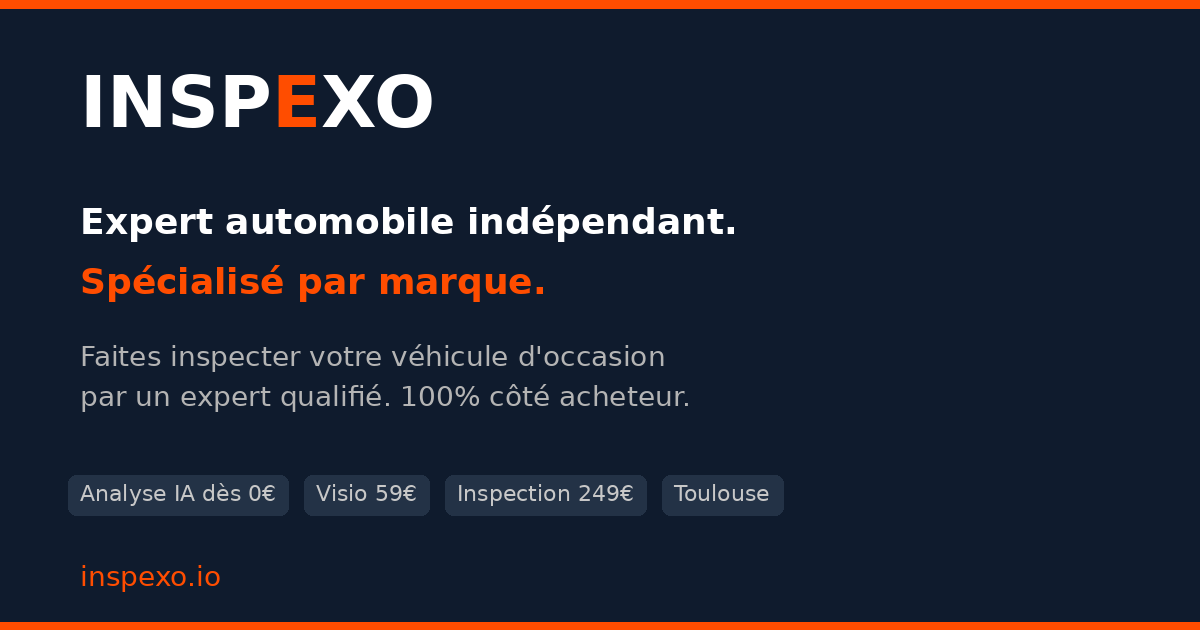
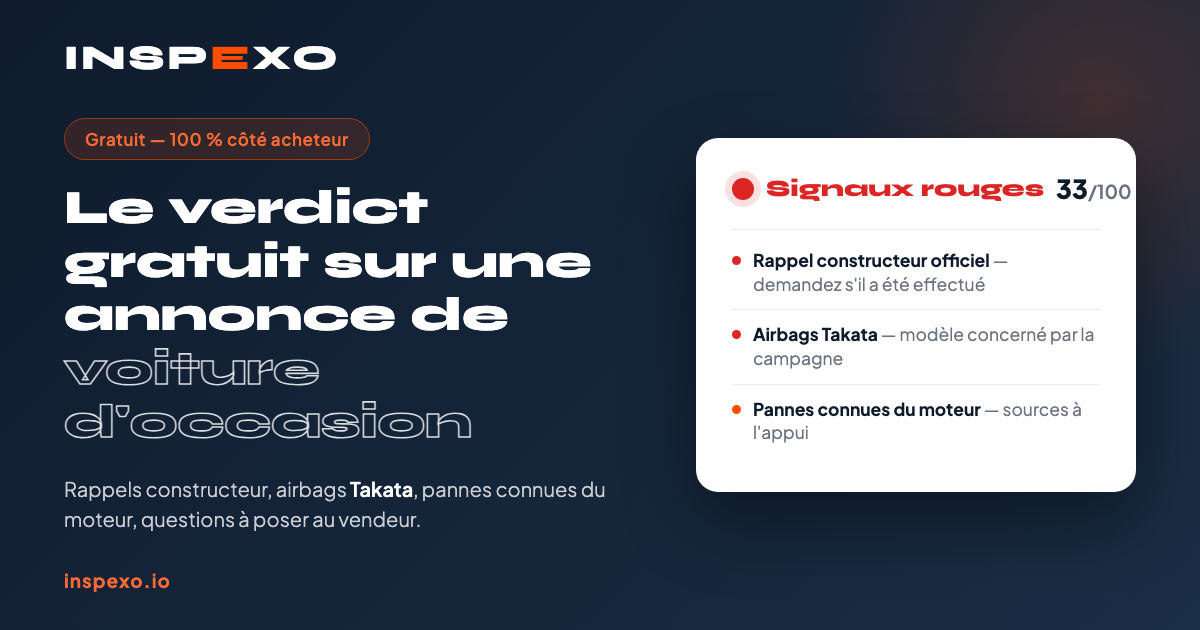
feat(seo): meta pivot score — title/description/keywords/OG + og-image verdict

diff --git a/public/index.html b/public/index.html
@@ -20,25 +20,25 @@
     <link rel="apple-touch-icon" href="%PUBLIC_URL%/apple-touch-icon.png" />
 
     <!-- SEO primaire -->
-    <title>Inspexo — Expert automobile indépendant, spécialisé par marque | Toulouse</title>
-    <meta name="description" content="Faites inspecter votre véhicule d'occasion par un expert qualifié, spécialisé par marque. 100% côté acheteur. Analyse IA dès 0€. Toulouse &amp; Haute-Garonne." />
-    <meta name="keywords" content="expert automobile occasion, inspection véhicule occasion, vérification voiture avant achat, expert BMW occasion, expert Mercedes occasion, Toulouse" />
+    <title>Inspexo — Analysez gratuitement une annonce de voiture d'occasion</title>
+    <meta name="description" content="Collez une annonce Leboncoin ou La Centrale : verdict en 1 minute, rappels constructeur, airbags Takata, pannes connues du moteur, questions à poser au vendeur. Gratuit, 100 % côté acheteur." />
+    <meta name="keywords" content="annonce voiture occasion, vérifier annonce leboncoin, rappel airbag takata, pannes connues moteur, acheter voiture occasion sans se faire avoir" />
     <meta name="robots" content="index, follow" />
     <link rel="canonical" href="https://www.inspexo.io/" />
 
     <!-- Open Graph -->
     <meta property="og:type" content="website" />
     <meta property="og:url" content="https://www.inspexo.io" />
-    <meta property="og:title" content="Inspexo — Expert automobile indépendant, spécialisé par marque" />
-    <meta property="og:description" content="Faites inspecter votre véhicule d'occasion par un expert qualifié. 100% côté acheteur. Analyse IA dès 0€." />
+    <meta property="og:title" content="Inspexo — Le verdict gratuit sur une annonce de voiture d'occasion" />
+    <meta property="og:description" content="Collez une annonce Leboncoin ou La Centrale : verdict en 1 minute, rappels constructeur, airbags Takata, pannes connues du moteur, questions à poser au vendeur. Gratuit, 100 % côté acheteur." />
     <meta property="og:image" content="https://www.inspexo.io/og-image.png" />
     <meta property="og:locale" content="fr_FR" />
     <meta property="og:site_name" content="Inspexo" />
 
     <!-- Twitter Card -->
     <meta name="twitter:card" content="summary_large_image" />
-    <meta name="twitter:title" content="Inspexo — Expert automobile indépendant" />
-    <meta name="twitter:description" content="Inspection véhicule d'occasion par des experts spécialisés par marque. 100% côté acheteur." />
+    <meta name="twitter:title" content="Inspexo — Le verdict gratuit sur une annonce de voiture d'occasion" />
+    <meta name="twitter:description" content="Collez une annonce Leboncoin ou La Centrale : verdict en 1 minute, rappels constructeur, airbags Takata, pannes connues du moteur, questions à poser au vendeur. Gratuit, 100 % côté acheteur." />
     <meta name="twitter:image" content="https://www.inspexo.io/og-image.png" />
 
     <!-- Schema.org LocalBusiness -->

diff --git a/src/App.jsx b/src/App.jsx
@@ -85,8 +85,8 @@ function Site() {
   return (
     <>
       <Helmet>
-        <title>Inspexo — Expert automobile indépendant, spécialisé par marque | Toulouse</title>
-        <meta name="description" content="Faites inspecter votre véhicule d'occasion par un expert qualifié, spécialisé par marque. 100% côté acheteur. Analyse IA dès 0€. Toulouse & Haute-Garonne." />
+        <title>Inspexo — Analysez gratuitement une annonce de voiture d'occasion</title>
+        <meta name="description" content="Collez une annonce Leboncoin ou La Centrale : verdict en 1 minute, rappels constructeur, airbags Takata, pannes connues du moteur, questions à poser au vendeur. Gratuit, 100 % côté acheteur." />
         <link rel="canonical" href="https://www.inspexo.io/" />
       </Helmet>
       <Navbar />
